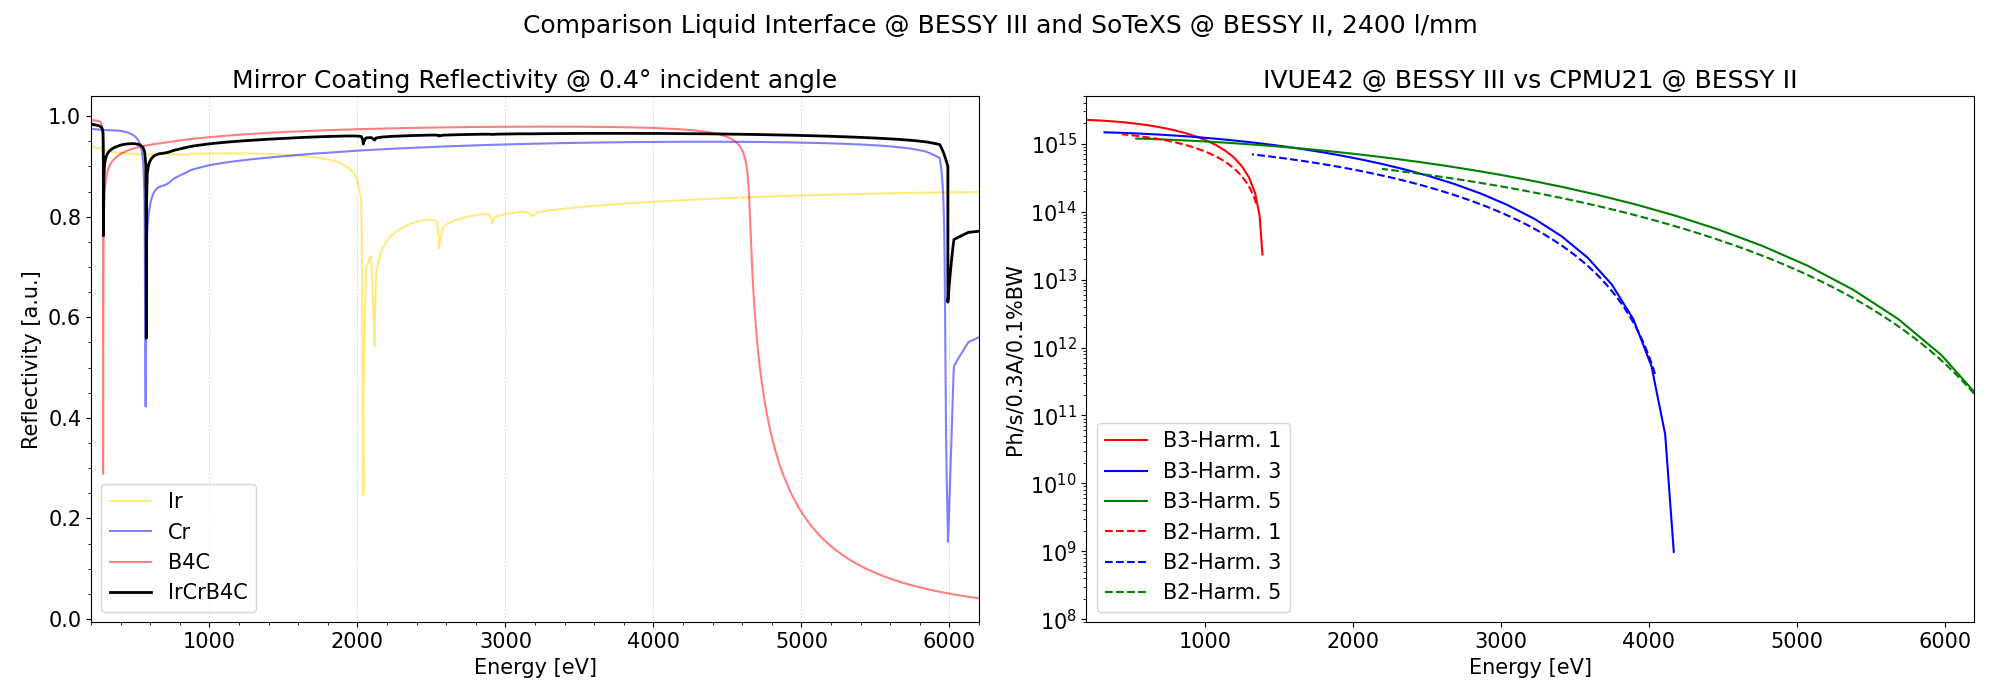
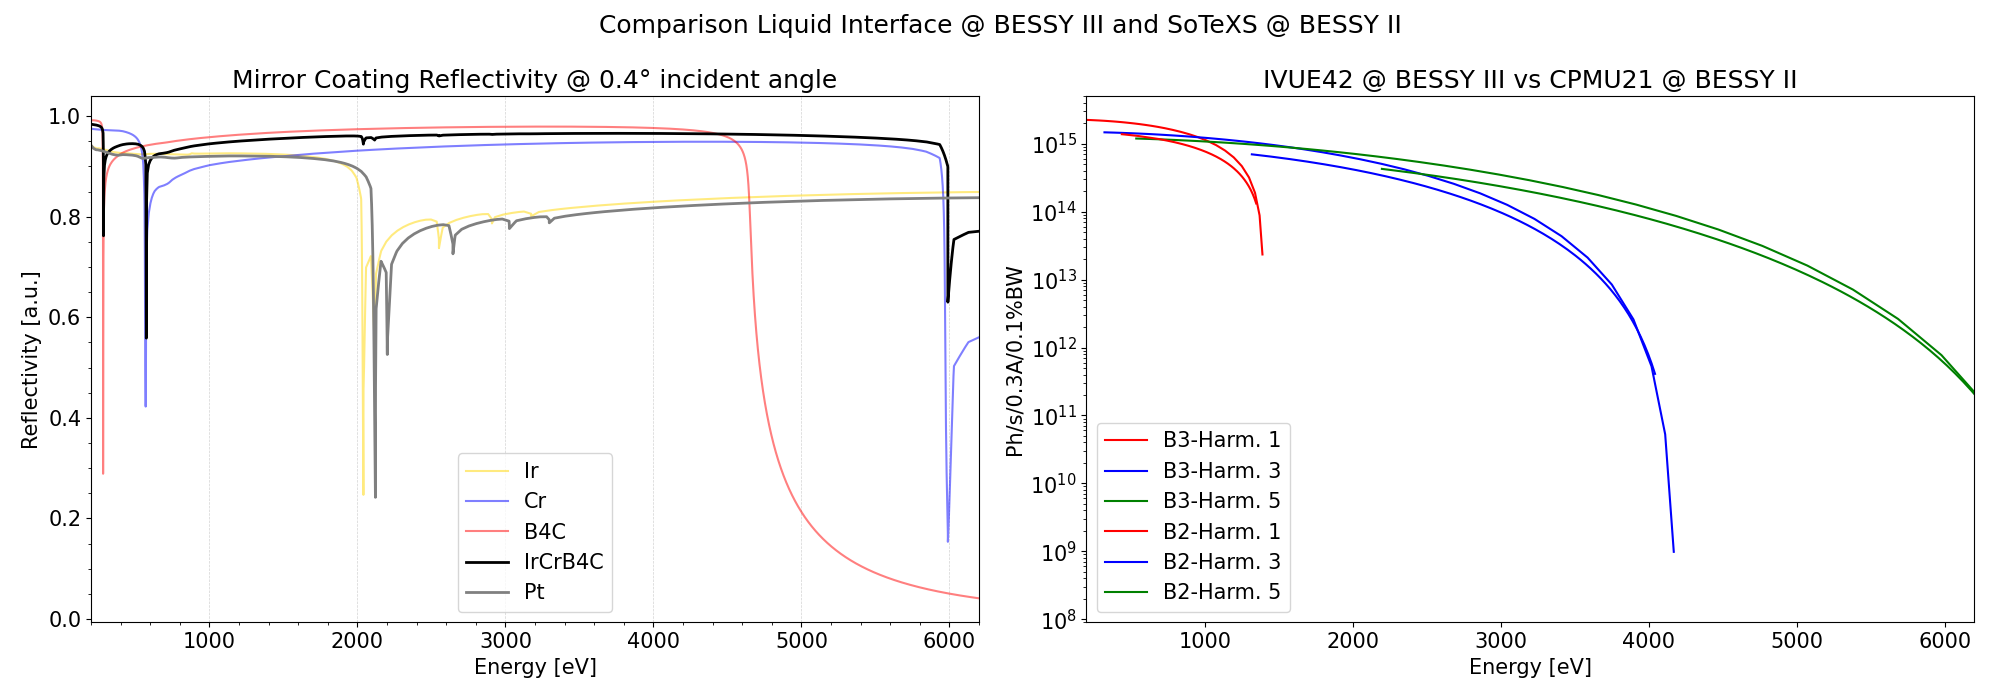
eval

diff --git a/beamlines/Signature2-Liquid_Interface/simulations/comparison_with_sotexs_BII/eval_2400_talk.py b/beamlines/Signature2-Liquid_Interface/simulations/comparison_with_sotexs_BII/eval_2400_talk.py
@@ -45,85 +45,88 @@ BL_df_2_1200 = BL_df_2_1200[BL_df_2_1200['PhotonEnergy'] <= 2000]
 harms=[1,3,5]
 x_range = [200, 6200]
 
-# ##############################################################
-# # PLOTTING AND ANALYSIS
-# plt.rcParams.update({'font.size': 15})  # Change 14 to any size you prefer
-# # Create the Main figure
-# fig, (axs) = plt.subplots(1, 2, figsize=(20, 7))
-# fig.suptitle('Comparison Liquid Interface @ BESSY III and SoTeXS @ BESSY II, 2400 l/mm')
+##############################################################
+# PLOTTING AND ANALYSIS
+plt.rcParams.update({'font.size': 15})  # Change 14 to any size you prefer
+# Create the Main figure
+fig, (axs) = plt.subplots(1, 2, figsize=(20, 7))
+fig.suptitle('Comparison Liquid Interface @ BESSY III and SoTeXS @ BESSY II')
 
-# # MIRROR REFLECTIVITY
-# ax1 = axs[0]
-# # Coatings:
-# de = 0.01
-# table = 'Henke'
-# theta = 0.4
-# E = np.arange(x_range[0], x_range[-1], de)
-# Ir  = rm.Material('Ir',  rho=22.56, kind='mirror',table=table)
-# Cr  = rm.Material('Cr',  rho=7.15,  kind='mirror',table=table)
-# B4C = rm.Material('C',   rho=2.52,  kind='mirror',table=table)
-# IrCrB4C = rm.Multilayer(tLayer=B4C, tThickness=40, 
-#                         bLayer=Cr, bThickness=60, 
-#                         nPairs=1, substrate=Ir)
+# MIRROR REFLECTIVITY
+ax1 = axs[0]
+# Coatings:
+de = 0.01
+table = 'Henke'
+theta = 0.4
+E = np.arange(x_range[0], x_range[-1], de)
+Ir  = rm.Material('Ir',  rho=22.56, kind='mirror',table=table)
+Cr  = rm.Material('Cr',  rho=7.15,  kind='mirror',table=table)
+B4C = rm.Material('C',   rho=2.52,  kind='mirror',table=table)
+IrCrB4C = rm.Multilayer(tLayer=B4C, tThickness=40, 
+                        bLayer=Cr, bThickness=60, 
+                        nPairs=1, substrate=Ir)
+Pt = rm.Material('Pt', rho=21.45, kind='mirror',table=table)
 
-# Ir, _ = get_reflectivity(Ir, E=E, theta=theta)
-# Cr, _ = get_reflectivity(Cr, E=E, theta=theta)
-# B4C, _ = get_reflectivity(B4C, E=E, theta=theta)
-# IrCrB4C, _ = get_reflectivity(IrCrB4C, E=E, theta=theta)
+Ir, _ = get_reflectivity(Ir, E=E, theta=theta)
+Cr, _ = get_reflectivity(Cr, E=E, theta=theta)
+B4C, _ = get_reflectivity(B4C, E=E, theta=theta)
+IrCrB4C, _ = get_reflectivity(IrCrB4C, E=E, theta=theta)
+Pt, _ = get_reflectivity(Pt, E=E, theta=theta)
 
-# ax1.plot(E, Ir, 'gold', label='Ir', alpha=0.5)
-# ax1.plot(E, Cr, 'blue', label='Cr', alpha=0.5)
-# ax1.plot(E, B4C, 'red', label='B4C', alpha=0.5)
-# ax1.plot(E, IrCrB4C, 'black', label='IrCrB4C', linewidth=2)
+ax1.plot(E, Ir, 'gold', label='Ir', alpha=0.5)
+ax1.plot(E, Cr, 'blue', label='Cr', alpha=0.5)
+ax1.plot(E, B4C, 'red', label='B4C', alpha=0.5)
+ax1.plot(E, IrCrB4C, 'black', label='IrCrB4C', linewidth=2)
+ax1.plot(E, Pt, 'grey', label='Pt', alpha=1, linewidth=2)
 
-# ax1.set_title('Mirror Coating Reflectivity @ 'f'{theta}° incident angle')
-# ax1.set_xlabel('Energy [eV]')
-# ax1.set_ylabel('Reflectivity [a.u.]')
-# ax1.legend()
-# ax1.set_xlim(x_range)
-# ax1.minorticks_on()
-# ax1.grid(which='major', axis='x', linestyle='--', linewidth=0.5, color='lightgrey')
-
-
-
-# ax3 = axs[0]
-
-# window = 20
-# colors = ['red', 'blue', 'green']
-# color_B2 = ['salmon', 'skyblue', 'lightgreen']
+ax1.set_title('Mirror Coating Reflectivity @ 'f'{theta}° incident angle')
+ax1.set_xlabel('Energy [eV]')
+ax1.set_ylabel('Reflectivity [a.u.]')
+ax1.legend()
+ax1.set_xlim(x_range)
+ax1.minorticks_on()
+ax1.grid(which='major', axis='x', linestyle='--', linewidth=0.5, color='lightgrey')
 
 
-# ax3 = axs[1]
-# for ind,harm in enumerate(harms):
-#     ax3.plot(undulator_3[f'Energy{harm}[eV]'], 
-#              undulator_3[f'Photons{harm}'],
-#              color=colors[ind], linestyle='solid',
-#              label=f'B3-Harm. {harm}')
-# for ind,harm in enumerate(harms):
-#     ax3.plot(undulator_2[f'Energy{harm}[eV]'], 
-#              undulator_2[f'Photons{harm}'],
-#              color=colors[ind], linestyle='solid',
-#              label=f'B2-Harm. {harm}')
+
+ax3 = axs[0]
+
+window = 20
+colors = ['red', 'blue', 'green']
+color_B2 = ['salmon', 'skyblue', 'lightgreen']
+
+
+ax3 = axs[1]
+for ind,harm in enumerate(harms):
+    ax3.plot(undulator_3[f'Energy{harm}[eV]'], 
+             undulator_3[f'Photons{harm}'],
+             color=colors[ind], linestyle='solid',
+             label=f'B3-Harm. {harm}')
+for ind,harm in enumerate(harms):
+    ax3.plot(undulator_2[f'Energy{harm}[eV]'], 
+             undulator_2[f'Photons{harm}'],
+             color=colors[ind], linestyle='solid',
+             label=f'B2-Harm. {harm}')
     
-# ax3.legend()
-# ax3.set_yscale('log')
-# ax3.set_xlabel('Energy [eV]')
-# ax3.set_ylabel('Ph/s/0.3A/0.1%BW')
-# ax3.set_xlim(x_range)
-# ax3.set_ylim(9e7, 5e15)
-# ax3.set_title('IVUE42 @ BESSY III vs CPMU21 @ BESSY II')
+ax3.legend()
+ax3.set_yscale('log')
+ax3.set_xlabel('Energy [eV]')
+ax3.set_ylabel('Ph/s/0.3A/0.1%BW')
+ax3.set_xlim(x_range)
+ax3.set_ylim(9e7, 5e15)
+ax3.set_title('IVUE42 @ BESSY III vs CPMU21 @ BESSY II')
 
-# # SAVING
-# # Ensure the "plot" folder exists
-# plot_folder = 'plot'
-# if not os.path.exists(plot_folder):
-#     os.makedirs(plot_folder)
+# SAVING
+# Ensure the "plot" folder exists
+plot_folder = 'plot'
+if not os.path.exists(plot_folder):
+    os.makedirs(plot_folder)
 
-# # Save the the figure
-# plt.tight_layout()
-# plt.savefig('plot/talk/LiquidInterface_2400_comparison_1.png')
-# # plt.show()
-# plt.close()
+# Save the the figure
+plt.tight_layout()
+plt.savefig('plot/talk/LiquidInterface_2400_comparison_1.png')
+# plt.show()
+plt.close()
 
 
 
